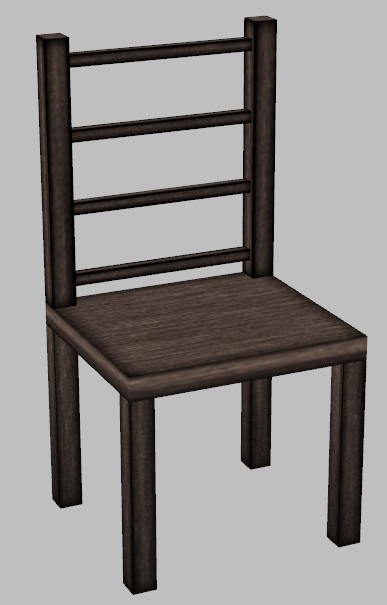
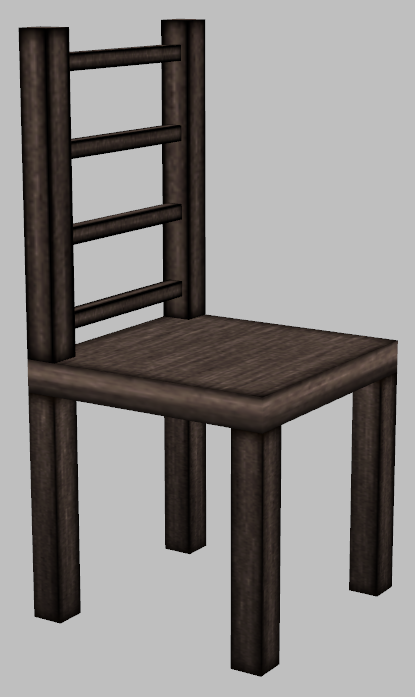
Overhaul text fonts and update the gallery
Now with the Windows 3.1 font as the main font for text.

diff --git a/index.html b/index.html
@@ -29,7 +29,7 @@
 <div class="main-content">
 
 <h1>Unizone Realms</h1>
-<p>A website created by me. Uni Musuotankarep (Not as a self-insert in Abyssal Fear or Massacre 3D.)</p>
+<p>A website created by me. Uni Musuotankarep, or just Uni for short (Not as a self-insert in Abyssal Fear or Massacre 3D.)</p>
 <br>
 <p>I create YTPs and YTMND-esque image and video edits, mod old games such as Doom and Serious Sam, and make my own music, conlangs, etc.</p>
 <br>
@@ -39,7 +39,7 @@
 <h1>Projects I've Worked On</h1>
 <p>Massacre 3D, the GZDoom mod that mocks the internet and its various fandoms, along with religion, politics, and stereotypes.</p>
 <p>Abyssal Fear, the Serious Sam 1 engine game based on Dante's Inferno.</p>
-<p>Destructo-Beats, a sample library that's a tribute to Big Fish Audio's Titanium Rhythms 1 and 2, which were created by Jason Jones.</p>
+<p>Destructo-Beats, a sample library that will be a tribute to Big Fish Audio's Titanium Rhythms 1 and 2, which were created by Jason Jones.</p>
 <br>
 
 <hr>
@@ -52,6 +52,8 @@
 <a href="https://www.doomworld.com/profile/23784-uni-musuotankarep/">Doomworld</a>
 <br>
 <a href="https://github.com/UnizoneDev">GitHub</a>
+<br>
+<a href="https://freesound.org/people/UniMusuotankarep/">Freesound</a>
 <br>
 
 <hr>

diff --git a/styles.css b/styles.css
@@ -1,3 +1,27 @@
+@font-face {
+  font-family: "Win31System";
+  src: url("./Fonts/ms_sans_serif.woff2") format("woff2");
+  font-weight: normal;
+  font-style: normal;
+}
+
+@font-face {
+  font-family: "Win31System";
+  src: url("./Fonts/ms_sans_serif_bold.woff2") format("woff2");
+  font-weight: bold;
+  font-style: normal;
+}
+
+.win31-text {
+  font-family: "Win31System", sans-serif;
+  font-size: 11px;
+  line-height: 1.2;
+
+  -webkit-font-smoothing: none;
+  -moz-osx-font-smoothing: grayscale;
+  font-smooth: never;
+}
+
 body {
   background-color: black;
 }
@@ -15,8 +39,14 @@ h1 {
 }
 
 p {
-  color: yellow;
-  font-family: Tahoma;
+  color: white;
+  font-family: "Win31System", sans-serif;
+  font-weight: bold;
+}
+
+a {
+  font-family: "Win31System", sans-serif;
+  font-weight: bold;
 }
 
 a:link {
@@ -24,7 +54,7 @@ a:link {
 }
 
 a:visited {
-  color: blue;
+  color: yellow;
 }
 
 a:hover {
@@ -70,7 +100,8 @@ a:active {
   text-align: center;
   padding: 16px 32px;
   text-decoration: none;
-  font-family: Tahoma;
+  font-family: "Win31System", sans-serif;
+  font-weight: bold;
   display: block;
   border-style: solid;
   border-color: white;

diff --git a/gallery.html b/gallery.html
@@ -50,6 +50,7 @@
 <p>
 <img src="ImageResources/AbyssalFearPics/WoodenChair1.png" width="200"> Wooden chair
 <img src="ImageResources/AbyssalFearPics/WoodenTable1.png" width="300"> Wooden table
+<img src="ImageResources/AbyssalFearPics/PowerSwitch1.png" width="300"> Power switch
 </p>
 <br>
 
